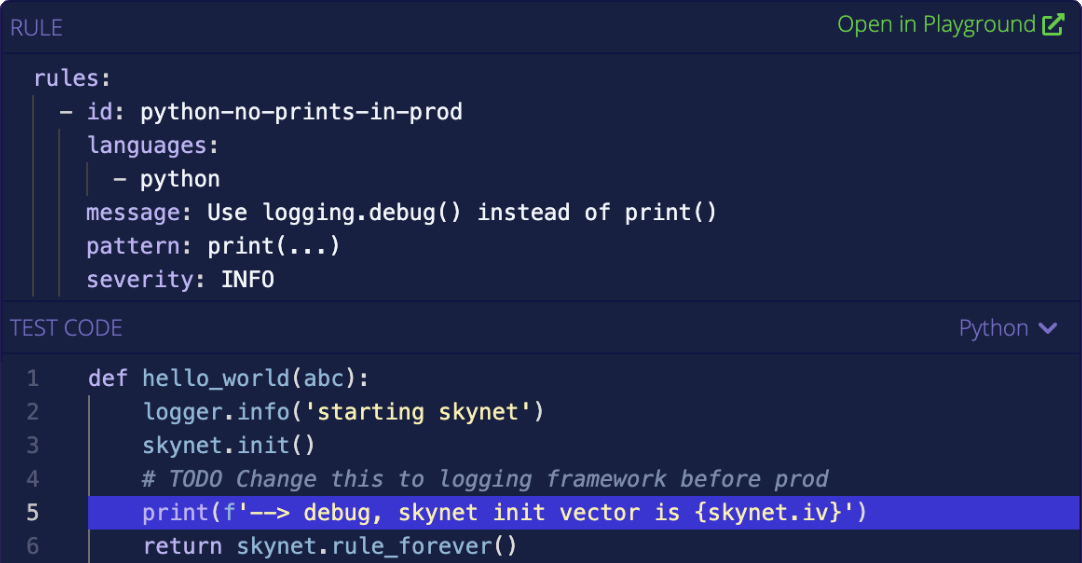
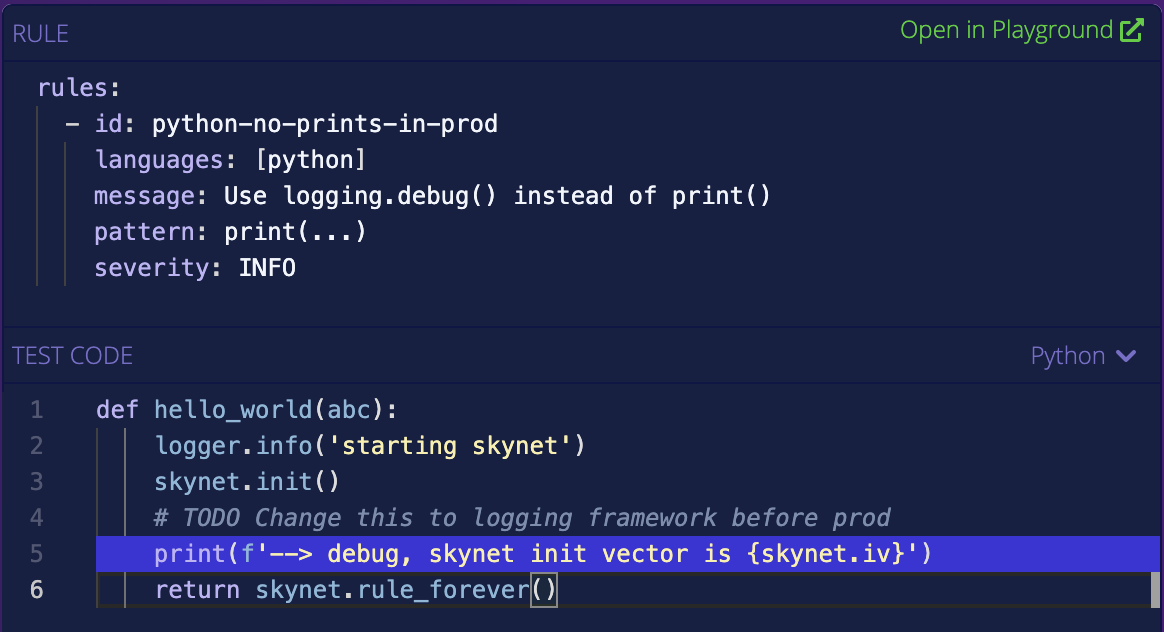
Ie/readme fixes (#3358)
* fix screenshot distortion on mobile

diff --git a/README.md b/README.md
@@ -42,7 +42,7 @@ Semgrep analyzes code locally on your computer or in your build environment: **c
 Its rules look like the code you already write; no abstract syntax trees, regex wrestling, or painful DSLs. Here's a quick rule for finding Python `print()` statements, run it online in Semgrep's Playground by clicking the image:
 
 <p align="center">
-    <a href="https://semgrep.dev/s/ievans:print-to-logger"><img src="https://github.com/returntocorp/semgrep/blob/develop/doc/playground-example.png" height="360" alt="Semgrep rule example for finding Python print() statements"/></a>
+    <a href="https://semgrep.dev/s/ievans:print-to-logger"><img src="https://github.com/returntocorp/semgrep/blob/develop/doc/playground-example.png" width="582" height="316" alt="Semgrep rule example for finding Python print() statements"/></a>
 </p>
 
 The Semgrep ecosystem includes:
